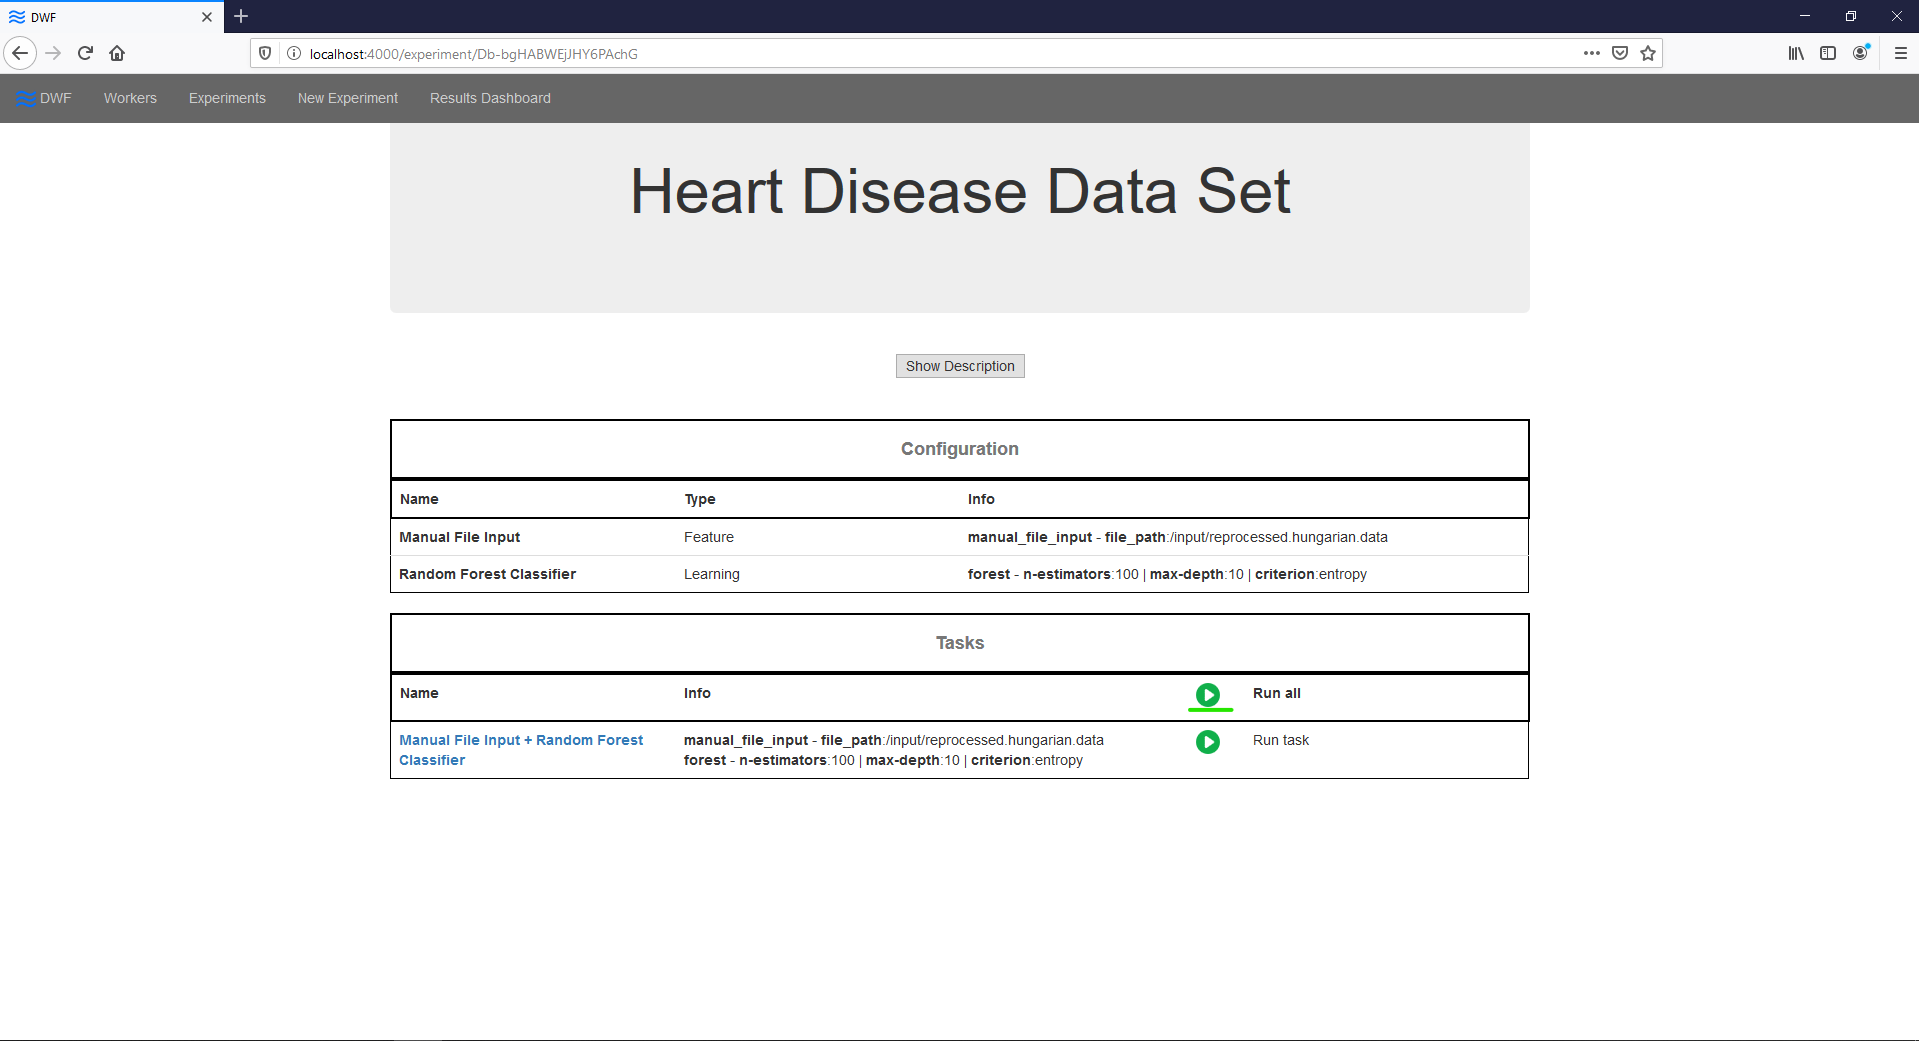
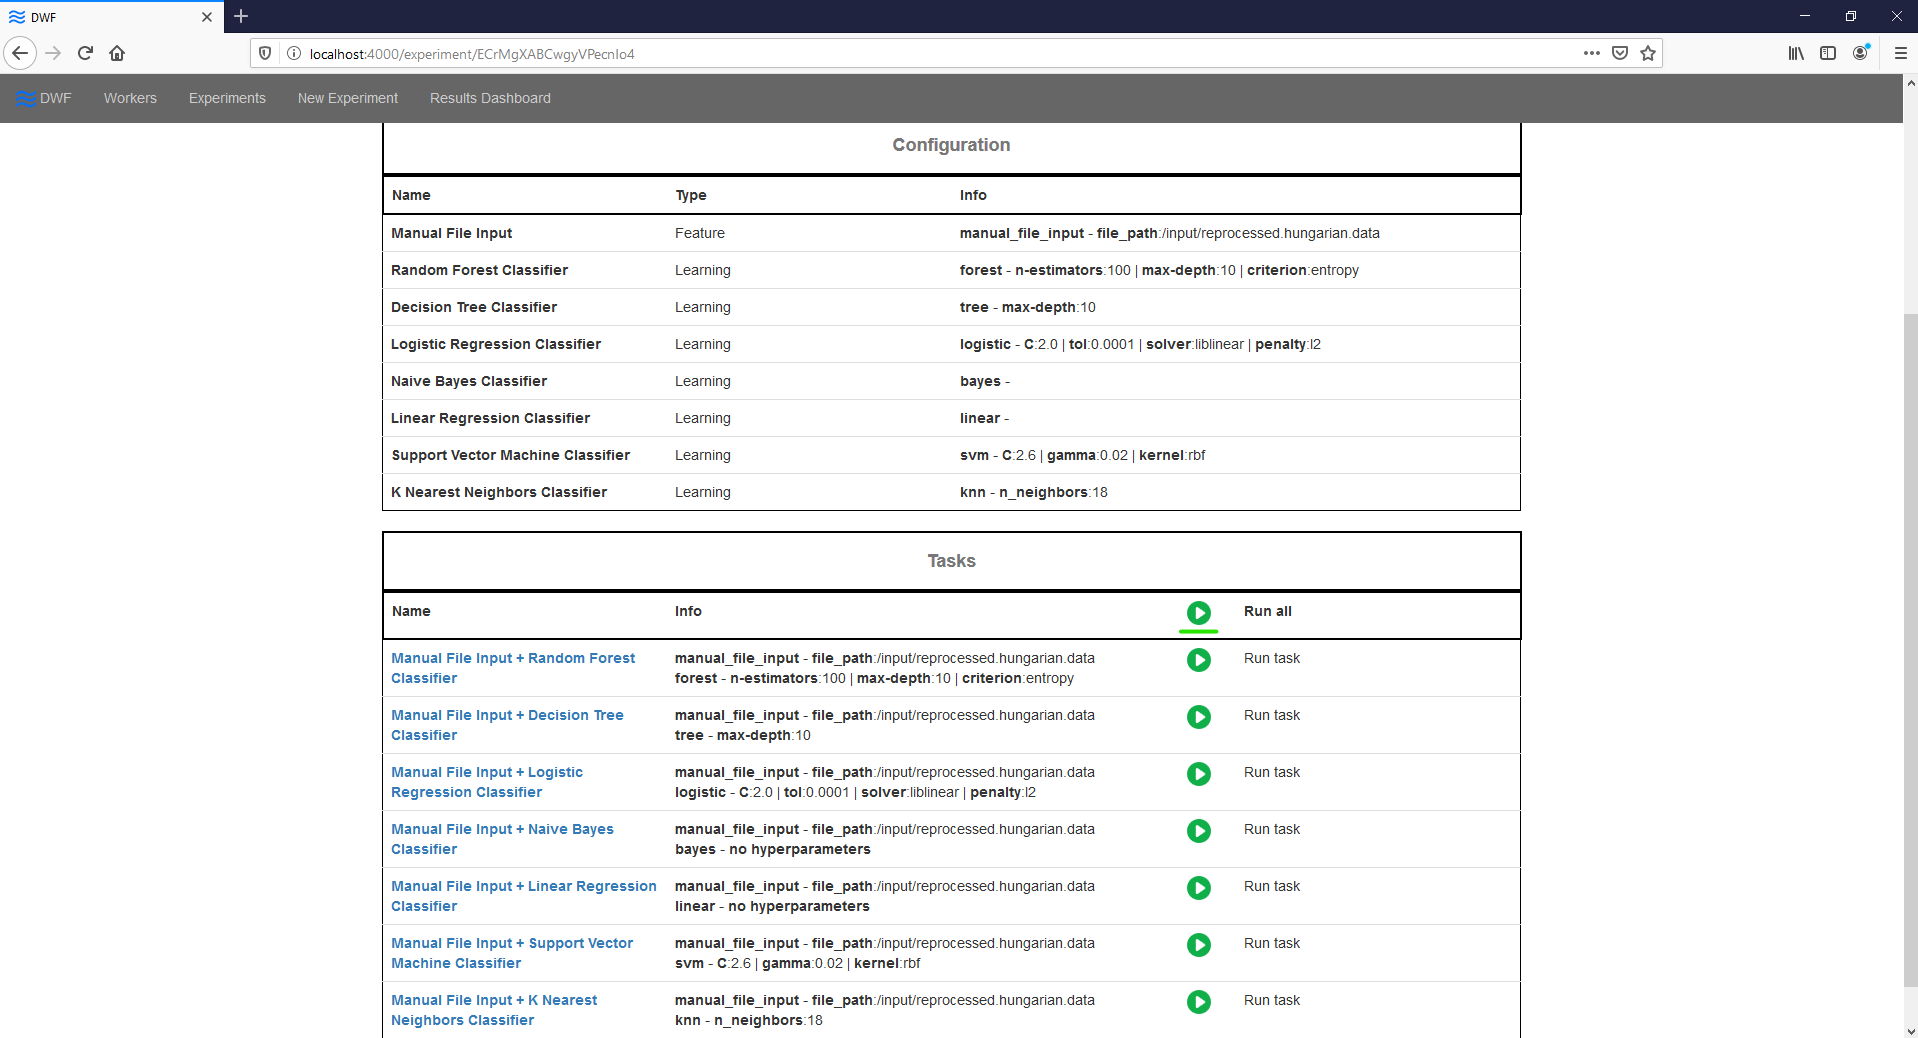
guide update, new images

diff --git a/GUIDE.md b/GUIDE.md
@@ -56,17 +56,28 @@ The worker can be started with the Python script located in the DWF-client folde
 python DWF-client/dwf_client.py
 ```
 
+When the client connects to the server, it receives a hash ID, as you can see in the clients' console log.
+
+![Client log](guide_images/pic_14.png)
+
+This hash code identificates the worker, that also can be found at the Workers view.
+
+![Worker ID](guide_images/pic_15.png)
+
 To run multiple clients on a machine, you have to duplicate the DWF-client directory for each one of instances.
 
 Now you have a fully working DWF framework.
 
 ## Preparing the dataset
 
-Hence the input of the machine learning part of the framework has to be a csv file, which contains only numeric data, we have to implement our feature assembler or we have to use a dataset that is in the required format. Now we are going to use a public dataset called [Heart Disease Data Set](https://archive.ics.uci.edu/ml/datasets/Heart+Disease).
+Hence the input of the machine learning part of the framework has to be in a csv formatted file, which contains only numeric values as data and a header row, we have to use a dataset that is in the required format or we can implement our feature assembler easily.
+However, implementing a custom feature assembler is out of the scope for this tutorial.
+
+This time, for the sake of simplicity, we are going to use a public dataset from the [UCI Machine Learning Repository](https://archive.ics.uci.edu/ml/datasets.php), called [Heart Disease Data Set](https://archive.ics.uci.edu/ml/datasets/Heart+Disease), which is going to be in csv format after a few minor changes.
 
 ### Download the data file
 
-You can download the .data file here: [reprocessed.hungarian.data](https://archive.ics.uci.edu/ml/machine-learning-databases/heart-disease/reprocessed.hungarian.data).
+First, download the .data file here: [reprocessed.hungarian.data](https://archive.ics.uci.edu/ml/machine-learning-databases/heart-disease/reprocessed.hungarian.data).
 
 ### Reformat the data file
 
@@ -74,7 +85,7 @@ Replace spaces with commas in the file (e.g. with Ctrl+H in Notepad++) to conver
 
 ![Broken row of csv file](guide_images/pic_00.png)
 
-Add header row to the file, name the columns anything you like, here is an example:
+Add a header row to the file, and name the columns anything you like, here is an example:
 
 ![Add header row](guide_images/pic_13.png)
 
@@ -94,11 +105,19 @@ Give your experiment a name and fill the Markdown field with some description ab
 
 ### Configure a feature assembling method
 
-As we mentioned earlier, the learning phase of the tasks require a csv file with only numeric data. The way you provide this file may vary depending on your goals. Now we will use our previously "preprocessed" file. To do so, click on "add feature assembling config".
+As we mentioned above, the learning phase of the tasks can accept only csv formatted files with only numeric values as data.
+
+Here comes into play the option that you can implement your own feature assembler. If you have lots of files in the same format, like images, text documents or data with nominal features, you might want to implement a custom feature assembling method, which can process and convert your data into the required format automatically.
+
+Now we will use our previously "preprocessed" file. To do so, click on "add feature assembling config".
 
 ![add feature assembling config](guide_images/pic_04.png)
 
-On the next screen select Manual File Input as strategy, browse the file you prepared previously, and fill in the Label column field with the name of the column that you want to predict on, in our case its "label".
+Then select Manual File Input as strategy, which means that nothing will be changed in our file, since we formatted it manually. Also we could select our feature assembling method here.
+
+Browse the file you prepared previously, and fill in the Label column field with the column name that you want to predict.
+
+If you named the columns according to the tutorial, it's going to be "label".
 
 ![Feature Assembling form](guide_images/pic_05.png)
 
@@ -106,15 +125,25 @@ Then click Submit.
 
 ### Configure a learning algorithm
 
-If you are not familiar with machine learning, or just want to get some results as fast as possible we recommend you to use the Random Forest Classifier. First, click on "add learning config".
+Because our dataset consists of only a few hundred rows, using neural network makes no sense, we going to use some simple algorithm.
+
+First, click on "add learning config".
 
 ![add learning config](guide_images/pic_06.png)
 
-Select Random Forest Classifier from the strategy selector dropdown menu.
+The framework will provide you the required default values for each algorithm.
+
+For the first algorithm, select Random Forest Classifier from the strategy selector dropdown menu.
 
 ![Learning config form](guide_images/pic_07.png)
 
 Then click Submit.
+
+You can add multiple Classifier algorithms the same way. Here are some examples:
+
+![Logistic Regression](guide_images/pic_16.png)
+
+![SVM](guide_images/pic_17.png)
 
 ### Generate tasks
 
@@ -138,6 +167,14 @@ Once the worker finishes the process of a task, it's results being saved in the 
 
 ![Click Summary](guide_images/pic_11.png)
 
-The best results in any column is marked with green background. Also you can order the results by clicking on the name of the specific columns.
+Here you can see the results of all learning algorithms with actual values, making it easy to compare them.
+
+The best results in any column is marked with green background.
+
+You can order the results by clicking on the name of the specific columns.
 
 ![Summary view](guide_images/pic_12.png)
+
+Clicking on the name of a specific task will navigate you to the Task Details page, where you can see what parameters produced the selected results.
+
+![Task Details](guide_images/pic_18.png)
